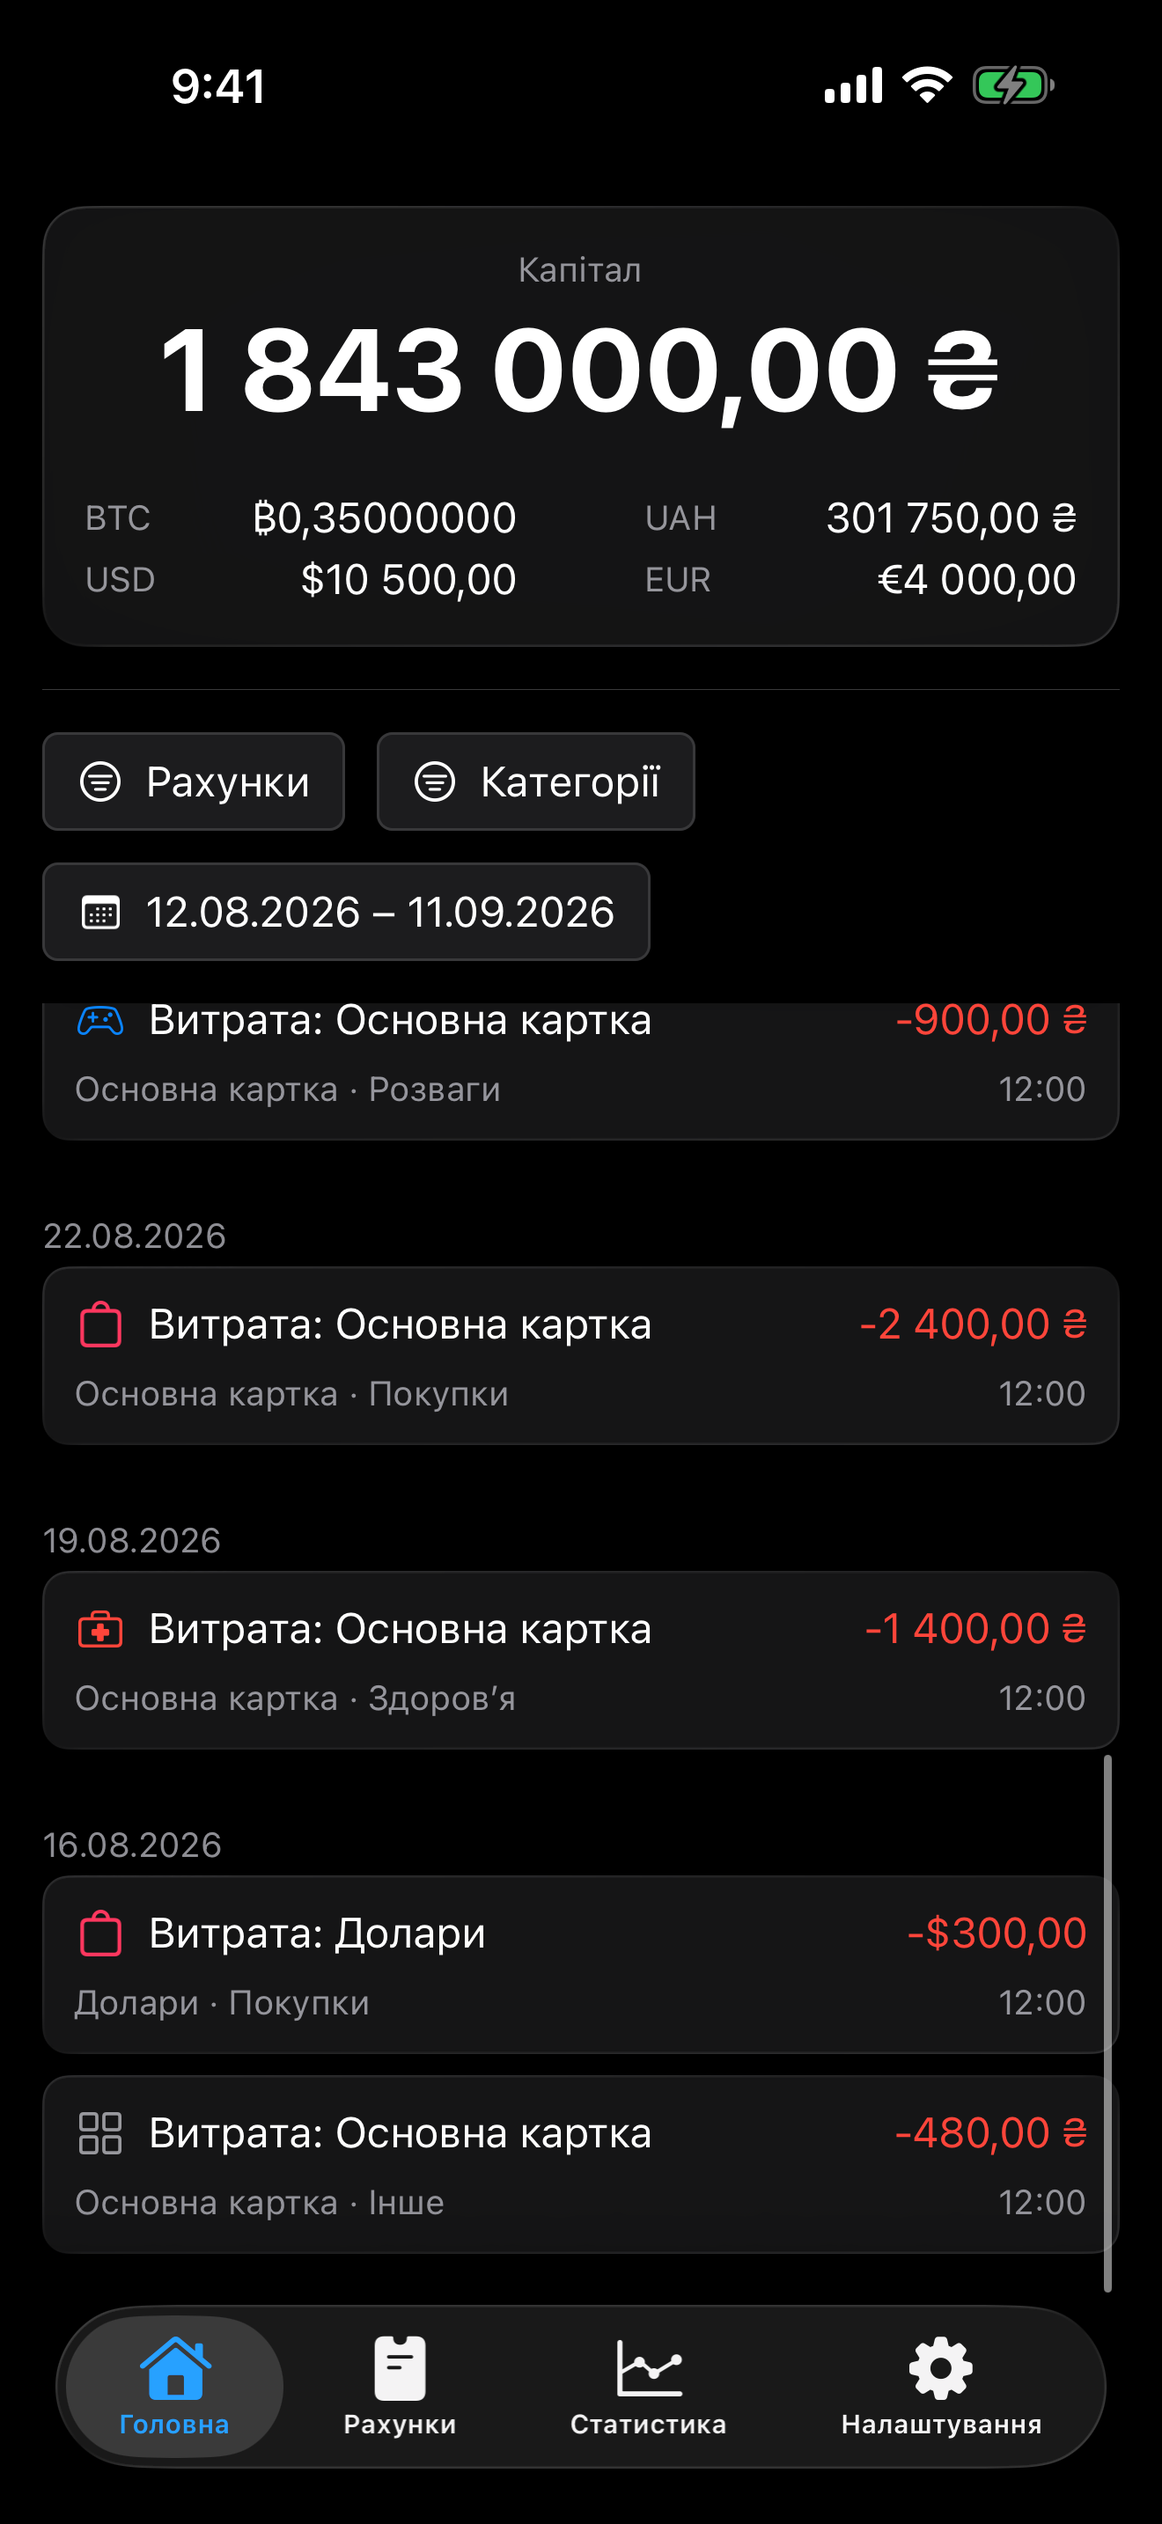
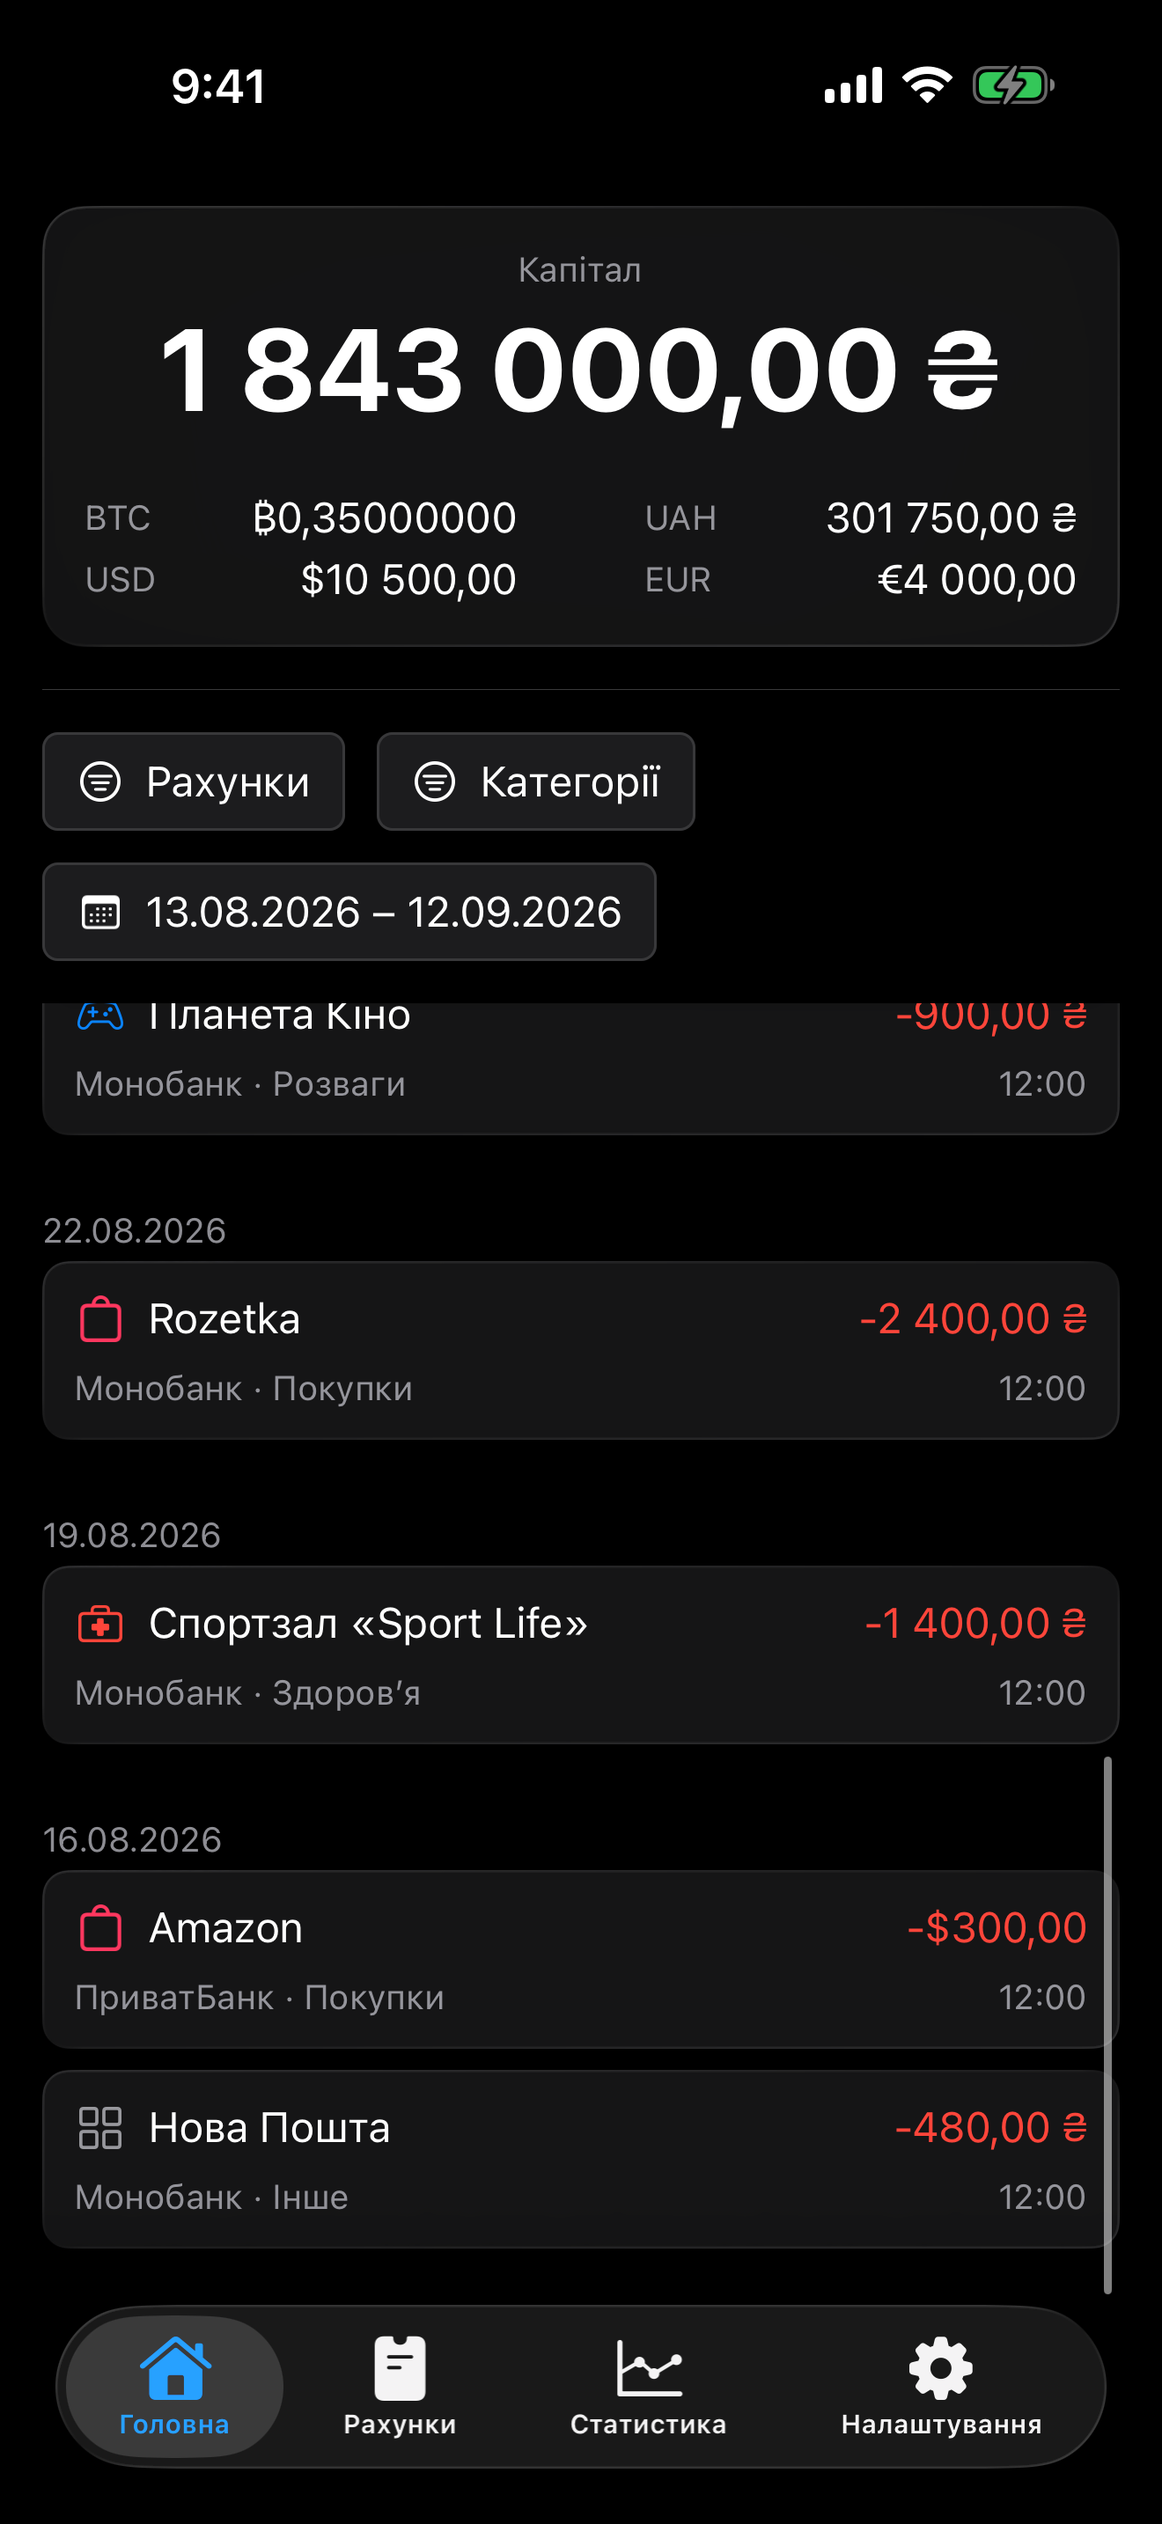
feat(screenshots): realistic seed + 10-shot deterministic flow (pre-glass, provisional)
Provisional pre-glass state; images will be re-captured on the new app-wide
bloom glass. Infra changes:
- Seed: realistic Ukrainian institutions (Монобанк/ПриватБанк/Wise/Готівка/
  Binance) + realistic merchant transaction descriptions; net worth unchanged
  (1 843 000 UAH), deterministic.
- Flow: dropped by-type-bar (duplicated line frame); 10 distinct shots;
  tab-icon-id navigation; per-block scroll with visibilityPercentage:100 +
  waitForAnimationToEnd; no centerElement (introduced mid-scroll drift).
- screen.component: bounces disabled under screenshot mode (native scroll-bounce
  settle was non-deterministic) + test.
- Helper SCREENSHOT_NAMES = 10 names.

Note: Statistics shot filenames 07/08 currently mislabel content (07 frames the
account-contribution donut, 08 the expenses-by-category donut) — to be corrected
at the post-glass re-capture along with the trend-hero lineup decision.

diff --git a/src/screenshot/seed/screenshot-seed.ts b/src/screenshot/seed/screenshot-seed.ts
@@ -59,6 +59,11 @@ type SeedTransaction = {
   amountMinorUnits: number;
   time: number;
   category: string | null;
+  // A realistic Ukrainian merchant/operation label so the ledger reads like a
+  // real account instead of the generic "expense/income" fallback. Persisted
+  // verbatim (it is demo data, not localized), so a UK or EN screenshot set
+  // both show the same institution names.
+  description: string;
 };
 
 type SeedHolding = {
@@ -188,6 +193,10 @@ const buildHistory = (): SeedHistoryRow[] => {
 
 type MonthlyExpense = {
   category: string;
+  // The recurring merchant/operation the monthly spend reads as. One per
+  // category so each ledger row names a real Ukrainian merchant matched to its
+  // category (the category chart stays accurate — only the label changed).
+  description: string;
   baseMinorUnits: number;
   monthlyDriftMinorUnits: number;
   dayOfMonth: number;
@@ -196,25 +205,63 @@ type MonthlyExpense = {
 
 // Categories reference the 10 seeded slugs (src/db/__fixtures__/seeded-categories.ts).
 const MONTHLY_EXPENSES: MonthlyExpense[] = [
-  { category: 'groceries', baseMinorUnits: 320_000, monthlyDriftMinorUnits: 6_000, dayOfMonth: 4 },
-  { category: 'dining', baseMinorUnits: 150_000, monthlyDriftMinorUnits: 5_000, dayOfMonth: 7 },
-  { category: 'transport', baseMinorUnits: 62_000, monthlyDriftMinorUnits: 2_000, dayOfMonth: 10 },
-  { category: 'utilities', baseMinorUnits: 210_000, monthlyDriftMinorUnits: 4_000, dayOfMonth: 13 },
+  {
+    category: 'groceries',
+    description: 'Сільпо',
+    baseMinorUnits: 320_000,
+    monthlyDriftMinorUnits: 6_000,
+    dayOfMonth: 4,
+  },
+  {
+    category: 'dining',
+    description: 'Пузата Хата',
+    baseMinorUnits: 150_000,
+    monthlyDriftMinorUnits: 5_000,
+    dayOfMonth: 7,
+  },
+  {
+    category: 'transport',
+    description: 'Uklon',
+    baseMinorUnits: 62_000,
+    monthlyDriftMinorUnits: 2_000,
+    dayOfMonth: 10,
+  },
+  {
+    category: 'utilities',
+    description: 'Комунальні послуги',
+    baseMinorUnits: 210_000,
+    monthlyDriftMinorUnits: 4_000,
+    dayOfMonth: 13,
+  },
   {
     category: 'entertainment',
+    description: 'Планета Кіно',
     baseMinorUnits: 90_000,
     monthlyDriftMinorUnits: 3_000,
     dayOfMonth: 16,
   },
-  { category: 'shopping', baseMinorUnits: 240_000, monthlyDriftMinorUnits: 8_000, dayOfMonth: 19 },
+  {
+    category: 'shopping',
+    description: 'Rozetka',
+    baseMinorUnits: 240_000,
+    monthlyDriftMinorUnits: 8_000,
+    dayOfMonth: 19,
+  },
   {
     category: 'health',
+    description: 'Спортзал «Sport Life»',
     baseMinorUnits: 140_000,
     monthlyDriftMinorUnits: 0,
     dayOfMonth: 22,
     everyNthMonth: 2,
   },
-  { category: 'other', baseMinorUnits: 48_000, monthlyDriftMinorUnits: 1_000, dayOfMonth: 25 },
+  {
+    category: 'other',
+    description: 'Нова Пошта',
+    baseMinorUnits: 48_000,
+    monthlyDriftMinorUnits: 1_000,
+    dayOfMonth: 25,
+  },
 ];
 
 const MONTHLY_SALARY_MINOR_UNITS = 5_000_000;
@@ -229,6 +276,7 @@ const buildMainCardTransactions = (): SeedTransaction[] => {
       amountMinorUnits: CARD_OPENING_MINOR_UNITS,
       time: at(LEDGER_MONTHS * MONTH_DAYS + 5),
       category: null,
+      description: 'Поповнення рахунку',
     },
   ];
 
@@ -239,6 +287,7 @@ const buildMainCardTransactions = (): SeedTransaction[] => {
       amountMinorUnits: MONTHLY_SALARY_MINOR_UNITS,
       time: at(monthStart + 2),
       category: null,
+      description: 'Зарплата',
     });
 
     for (const expense of MONTHLY_EXPENSES) {
@@ -250,6 +299,7 @@ const buildMainCardTransactions = (): SeedTransaction[] => {
         amountMinorUnits: -(expense.baseMinorUnits + month * expense.monthlyDriftMinorUnits),
         time: at(monthStart + expense.dayOfMonth),
         category: expense.category,
+        description: expense.description,
       });
     }
   }
@@ -265,12 +315,12 @@ const buildMainCardTransactions = (): SeedTransaction[] => {
 
 const buildAccounts = (): SeedAccount[] => [
   {
-    name: 'Основна картка',
+    name: 'Монобанк',
     kind: 'bank',
     color: entityColorsDark.blue,
     holdings: [
       {
-        name: 'Основна картка',
+        name: 'Монобанк',
         type: 'card',
         currency: 'UAH',
         color: entityColorsDark.blue,
@@ -289,62 +339,102 @@ const buildAccounts = (): SeedAccount[] => [
         currency: 'UAH',
         color: entityColorsDark.green,
         transactions: [
-          { amountMinorUnits: 2_000_000, time: at(170), category: null },
-          { amountMinorUnits: -150_000, time: at(60), category: 'cash' },
-          { amountMinorUnits: -60_000, time: at(40), category: 'groceries' },
-          { amountMinorUnits: -40_000, time: at(12), category: 'transport' },
+          {
+            amountMinorUnits: 2_000_000,
+            time: at(170),
+            category: null,
+            description: 'Зняття готівки в банкоматі',
+          },
+          { amountMinorUnits: -150_000, time: at(60), category: 'cash', description: 'Ринок' },
+          { amountMinorUnits: -60_000, time: at(40), category: 'groceries', description: 'АТБ' },
+          {
+            amountMinorUnits: -40_000,
+            time: at(12),
+            category: 'transport',
+            description: 'Київський метрополітен',
+          },
         ],
       },
     ],
   },
   {
-    name: 'Долари',
+    name: 'ПриватБанк',
     kind: 'bank',
     color: entityColorsDark.teal,
     holdings: [
       {
-        name: 'Долари',
+        name: 'ПриватБанк',
         type: 'card',
         currency: 'USD',
         color: entityColorsDark.teal,
         transactions: [
-          { amountMinorUnits: 1_000_000, time: at(150), category: null },
-          { amountMinorUnits: 80_000, time: at(90), category: null },
-          { amountMinorUnits: -30_000, time: at(25), category: 'shopping' },
+          {
+            amountMinorUnits: 1_000_000,
+            time: at(150),
+            category: null,
+            description: 'Поповнення рахунку',
+          },
+          {
+            amountMinorUnits: 80_000,
+            time: at(90),
+            category: null,
+            description: 'Фріланс-проєкт',
+          },
+          { amountMinorUnits: -30_000, time: at(25), category: 'shopping', description: 'Amazon' },
         ],
       },
     ],
   },
   {
-    name: 'Євро',
+    name: 'Wise',
     kind: 'bank',
     color: entityColorsDark.indigo,
     holdings: [
       {
-        name: 'Євро',
+        name: 'Wise',
         type: 'card',
         currency: 'EUR',
         color: entityColorsDark.indigo,
         transactions: [
-          { amountMinorUnits: 450_000, time: at(120), category: null },
-          { amountMinorUnits: -50_000, time: at(35), category: 'shopping' },
+          {
+            amountMinorUnits: 450_000,
+            time: at(120),
+            category: null,
+            description: 'Поповнення рахунку',
+          },
+          {
+            amountMinorUnits: -50_000,
+            time: at(35),
+            category: 'shopping',
+            description: 'Booking.com',
+          },
         ],
       },
     ],
   },
   {
-    name: 'Bitcoin',
+    name: 'Binance',
     kind: 'crypto',
     color: entityColorsDark.orange,
     holdings: [
       {
-        name: 'Bitcoin',
+        name: 'Binance',
         type: 'crypto_asset',
         currency: 'BTC',
         color: entityColorsDark.orange,
         transactions: [
-          { amountMinorUnits: 30_000_000, time: at(140), category: null },
-          { amountMinorUnits: 5_000_000, time: at(60), category: null },
+          {
+            amountMinorUnits: 30_000_000,
+            time: at(140),
+            category: null,
+            description: 'Купівля BTC',
+          },
+          {
+            amountMinorUnits: 5_000_000,
+            time: at(60),
+            category: null,
+            description: 'Купівля BTC',
+          },
         ],
       },
     ],
@@ -407,13 +497,15 @@ const seedHolding = async (accountId: string, holding: SeedHolding): Promise<voi
     // recordManual adjusts the holding balance by the amount, so the holding's
     // final balance is the sum of its seeded transactions (the holding was
     // created with a zero opening balance, emitting no clock-stamped opening
-    // row of its own). No description is persisted — the ledger resolves a
-    // localized label at render time from the category.
+    // row of its own). Each row persists a realistic merchant/operation
+    // description so the ledger reads like a real account rather than the
+    // generic "expense/income" fallback used when the description is blank.
     await transactionsRepo.recordManual({
       holdingId,
       amountMinorUnits: transaction.amountMinorUnits,
       time: transaction.time,
       category: transaction.category ?? undefined,
+      description: transaction.description,
     });
   }
 };

diff --git a/src/design-system/components/screen/screen.component.test.tsx b/src/design-system/components/screen/screen.component.test.tsx
@@ -1,3 +1,4 @@
+import { isScreenshotMode } from '@kiko/screenshot/screenshot-mode';
 import { render, within } from '@testing-library/react-native';
 import type { ComponentProps } from 'react';
 import { type StyleProp, StyleSheet, Text, type ViewStyle } from 'react-native';
@@ -8,6 +9,18 @@ import '../../unistyles';
 // `design-system/components/screen`), not `./screen.component` directly, so
 // this test also exercises index.ts's re-export.
 import Screen from '.';
+
+// `isScreenshotMode()` reads a value react-native-dotenv inlines at BUILD time,
+// so it cannot be flipped at runtime by mocking `@env`; mock the screenshot-mode
+// module itself instead. The jest.fn is defined INLINE in the factory (not as an
+// outer const the factory closes over) because `jest.mock` is hoisted above
+// every other top-level statement — an outer reference would not yet exist when
+// the factory runs. Each test drives the return value through the imported
+// handle below, defaulting to `false` (the production value) via `beforeEach`.
+jest.mock('@kiko/screenshot/screenshot-mode', () => ({
+  isScreenshotMode: jest.fn(() => false),
+}));
+const mockIsScreenshotMode = isScreenshotMode as jest.Mock;
 
 // The Screen footer lifts itself clear of the floating native tab bar by the
 // bar's measured height. The real hook throws outside a native bottom-tab
@@ -135,6 +148,13 @@ const renderScreen = (props: ComponentProps<typeof Screen> = {}) =>
 const footerNode = <Text>footer content</Text>;
 
 describe('Screen', () => {
+  // Every case runs with screenshot mode OFF (the production value) unless it
+  // opts in, so the default-bounce assertion and every unrelated case see the
+  // real app's behaviour.
+  beforeEach(() => {
+    mockIsScreenshotMode.mockReturnValue(false);
+  });
+
   it('renders children in a plain (non-scrolling) View by default', async () => {
     const { getByText, queryByTestId } = await renderScreen();
 
@@ -147,6 +167,28 @@ describe('Screen', () => {
 
     expect(getByText('content')).toBeTruthy();
     expect(getByTestId(SCROLL_VIEW_TEST_ID).props.contentInsetAdjustmentBehavior).toBe('automatic');
+  });
+
+  it('leaves the ScrollView bounce at the RN default outside screenshot mode (real users keep it)', async () => {
+    const { getByTestId } = await renderScreen({ scroll: true });
+
+    // Production must be unchanged: `bounces` is left `undefined`, so RN applies
+    // its default (`true`) and real users keep the native overscroll bounce.
+    expect(getByTestId(SCROLL_VIEW_TEST_ID).props.bounces).toBeUndefined();
+  });
+
+  it('disables the ScrollView bounce under screenshot mode so the bottom-clamped shot is deterministic', async () => {
+    mockIsScreenshotMode.mockReturnValue(true);
+
+    const { getByTestId } = await renderScreen({ scroll: true });
+
+    // The last App Store screenshot (spending-trend) is taken at the very bottom
+    // of this ScrollView, where iOS's native overscroll settles to a different
+    // resting offset run-to-run — motion `ReducedMotionConfig` cannot stop (it
+    // is not reanimated-driven) and Maestro cannot wait out. Turning `bounces`
+    // off ONLY in screenshot-mode builds removes that native settle so the shot
+    // lands at a fixed, clamped offset.
+    expect(getByTestId(SCROLL_VIEW_TEST_ID).props.bounces).toBe(false);
   });
 
   it('enables scrollToOverflow so a programmatic scroll-to-top re-expands the large title', async () => {

diff --git a/src/design-system/components/screen/screen.component.tsx b/src/design-system/components/screen/screen.component.tsx
@@ -1,3 +1,4 @@
+import { isScreenshotMode } from '@kiko/screenshot/screenshot-mode';
 import type { FC } from 'react';
 import { ScrollView, View } from 'react-native';
 import { useBottomTabBarHeight } from 'react-native-bottom-tabs';
@@ -64,6 +65,14 @@ const Screen: FC<ScreenProps> = ({
         <ScrollView
           ref={scrollableRef}
           testID="screen-scroll-view"
+          // Screenshot-mode ONLY: turn off the native iOS overscroll bounce so
+          // the App Store spending-trend shot — taken at the very bottom of this
+          // ScrollView — lands at a fixed, bottom-clamped offset instead of
+          // catching iOS's run-to-run bounce settle (native motion, so neither
+          // `ReducedMotionConfig` nor Maestro's `waitForAnimationToEnd` can gate
+          // it). `undefined` keeps RN's default (`true`), so real users are
+          // unaffected. Gated on the build-time `isScreenshotMode()` dead branch.
+          bounces={isScreenshotMode() ? false : undefined}
           contentInsetAdjustmentBehavior="automatic"
           // RN's `scrollTo` clamps a programmatic negative y back to `0`, so the
           // scroll-to-top hook's negative target — more negative than that `0`

diff --git a/CLAUDE.md b/CLAUDE.md
@@ -121,7 +121,7 @@ the App Store deliverable images and the regression baseline;
 how ops produces/refreshes that set from a real capture — it is a
 separate, standalone script (no `_lib.sh`, no `print_block`, not a
 check, not in `check:all`/`check:deep`, not hook-wired) that runs the
-SAME flow through the SAME shared helper and copies the 12 named PNGs
+SAME flow through the SAME shared helper and copies the 10 named PNGs
 it captures into `screenshots/appstore/6.9-inch/uk/` (`mkdir -p`'d
 first, overwriting what was there); it never commits.
 
@@ -148,7 +148,7 @@ capture, named `step-NNN-<commandName>.png`) are two DIFFERENT
 artifact collection directories Maestro writes under `--debug-output`
 — confirmed on disk during this investigation — so the search is
 scoped to the `takeScreenshot/` directory specifically, never the
-generic `screenshots/` one. The 12 canonical shot names are declared
+generic `screenshots/` one. The 10 canonical shot names are declared
 once, as `SCREENSHOT_NAMES`, in `run-flow-and-collect.sh` itself — the
 single source of truth both the check and the capture script read, so
 the shot list cannot drift between them.
